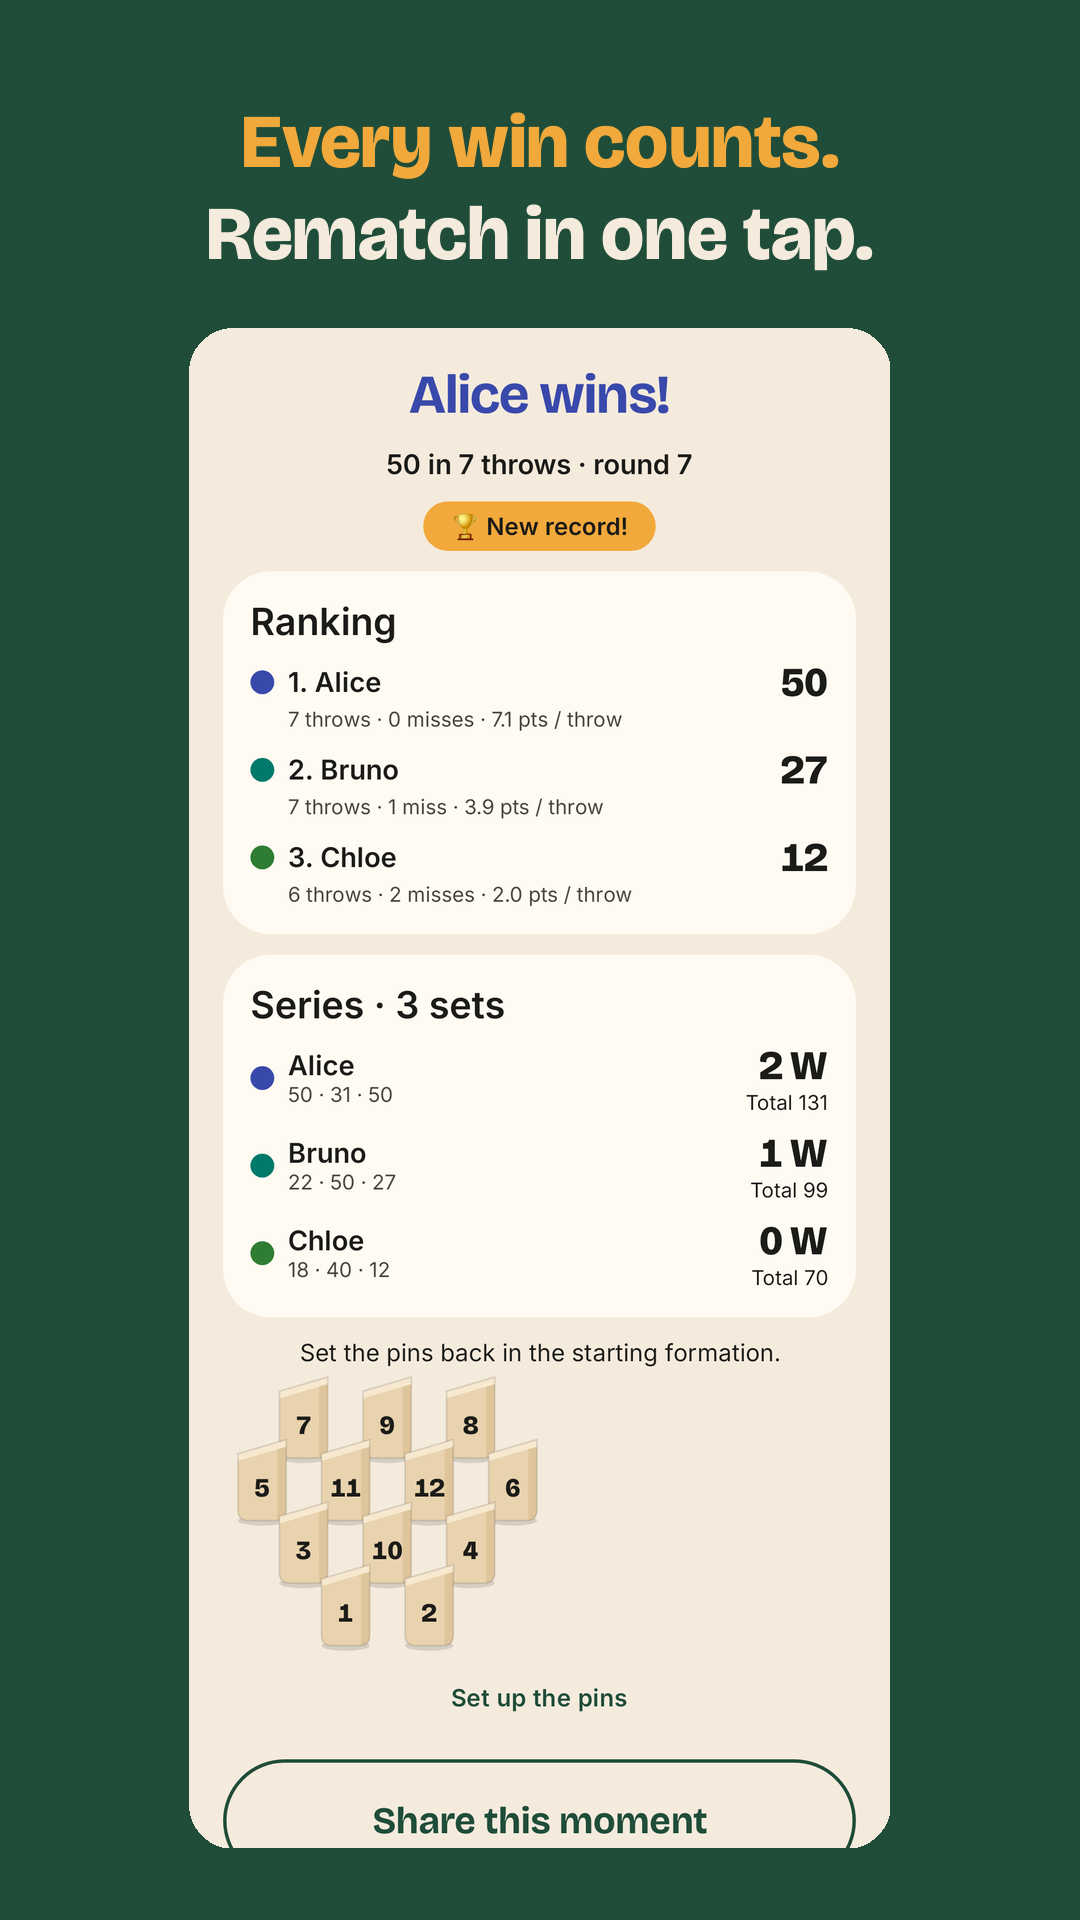
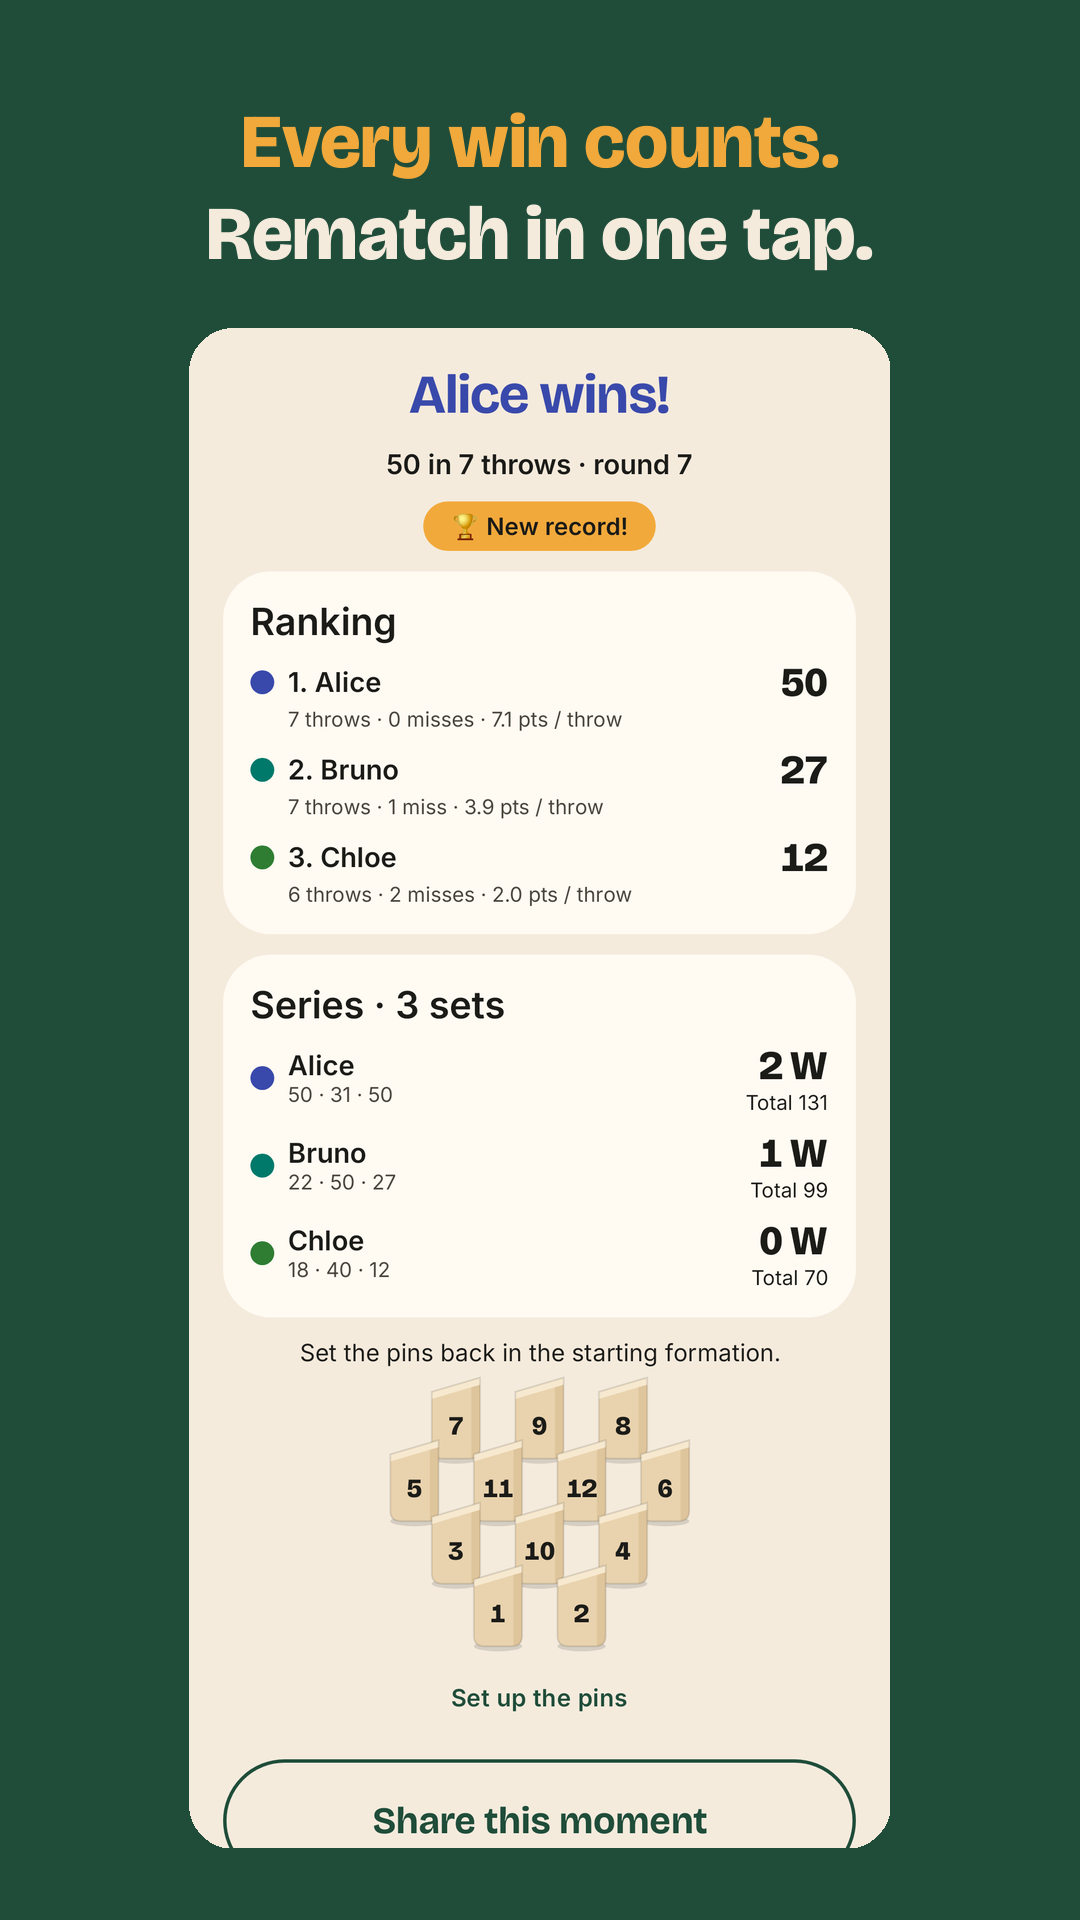
docs(store): checklist à jour, journal du test fermé, captures avec la grille centrée

Changed region(s): [[0.2139, 0.7188, 0.6417, 0.875]]

diff --git a/docs/store/CHECKLIST.md b/docs/store/CHECKLIST.md
@@ -1,90 +1,101 @@
 # Checklist de publication sur le Google Play Store
 
-Mise à jour : 2026-10-28 (version 0.8.0, build 8). Statuts : ✅ fait · 🟡 en cours · ⬜ à faire · 👤 action du porteur
+Mise à jour : 2026-10-29 (version 0.8.3, build 11). Statuts : ✅ fait · 🟡 en cours · ⬜ à faire · 👤 action du porteur
 du projet (compte, identité, décision). Décisions : V1 **sans compte** (phase 4 en V2), **modes de jeu après la
-publication**.
+publication**, **F-Droid après le Play Store**.
 
 ## Décisions
 | Point | Statut | Note |
 |---|---|---|
 | Phase 4 (comptes) reportée en V2 | ✅ | validé le 2026-10-28 |
 | Modes de jeu après la publication | ✅ | validé le 2026-10-28 |
-| Marque « Mölkky » vérifiée, nom validé ou nom de repli | ✅ | nom conservé (usage toléré par les apps tierces) ; non-affiliation dans À propos, README, `TRADEMARKS.md` ; à reprendre dans la fiche ; nom de repli à garder sous le coude |
-| Public cible : 13 ans et plus, hors programme « Familles » | ⬜ 👤 | à confirmer au questionnaire |
+| Marque « Mölkky » vérifiée, nom validé | ✅ | nom conservé ; non-affiliation dans À propos, README, `TRADEMARKS.md`, fiche du store, site ; nom de repli à garder sous le coude |
+| Public cible : 13 ans et plus, hors programme « Familles » | ✅ | déclaré dans la Play Console |
+| Langue par défaut : anglais (fiche et app) | ✅ | un téléphone en français reste en français (0.8.2) |
 | Lien de soutien (« Paye-moi un café ») | ⬜ | seulement sur le site, jamais dans l'app ; règle Play et statut DSA à vérifier |
+| F-Droid | ⬜ | après le Play Store (voir `CLAUDE.md`, décisions du 2026-10-29) |
 
 ## Comptes et clés
 | Point | Statut | Note |
 |---|---|---|
-| Compte développeur personnel « Yogi Studio » (25 $, identité vérifiée) | ⬜ 👤 | |
+| Compte développeur personnel « Yogi Studio » | ✅ | validé le 2026-10-29 |
 | Adresse de contact publique dédiée | ✅ | yogistudiofr@gmail.com |
-| Clé d'envoi créée et sauvegardée | ✅ | créée le 2026-10-28 (empreinte SHA-256 `71:A7:37:72:…:54:A8:DF:B0`) ; archive chiffrée (gpg AES-256) sur le NAS et par e-mail |
-| Play App Signing accepté | ⬜ 👤 | au premier envoi |
+| Clé d'envoi créée et sauvegardée | ✅ | 2026-10-28 ; archive chiffrée sur le NAS et par e-mail |
+| Play App Signing accepté | ✅ | au premier envoi (test interne 0.8.1) |
 
 ## Application
 | Point | Statut | Note |
 |---|---|---|
-| AAB signé (`bundleRelease`) | ✅ | 0.8.0 (build 8) signé avec la clé d'envoi le 2026-10-28 ; APK release signé (v2), 0 traceur |
-| Release minifiée testée sur téléphone (dont partie à côté) | 🟡 👤 | 0.8.0 sur Fairphone 6 (2026-10-28) : partie, reprise, partage, sauvegarde, À propos OK ; **partie à côté en release non testée** (release sur les deux téléphones) |
-| targetSdk au niveau exigé (API 36 minimum) | ✅ | targetSdk 37 |
-| Permission « réseau local » (Android 17) gérée, hôte et invité | ✅ | testé sur Pixel 7a |
-| Permissions minimales, aucune localisation | ✅ | liste blanche vérifiée en CI (`checkReleasePermissions`) |
+| Fiche créée (`com.yogistudio.molkkyboard`, Application, Sports, gratuite) | ✅ | 2026-10-29 |
+| AAB signé | ✅ | 0.8.3 (11), construit avec `-Pmolkky.feedback=true` pour le test fermé |
+| Test interne | ✅ | 0.8.1 (9) publié le 2026-10-29 |
+| Test fermé | 🟡 | 0.8.2 (10) envoyé le 2026-10-29, en cours d'examen ; 0.8.3 (11) prête |
+| Release minifiée testée sur téléphone | 🟡 👤 | 0.8.0 sur Fairphone (partie, reprise, partage, sauvegarde) ; à refaire avec la 0.8.3 depuis le Play Store, dont la partie à côté |
+| targetSdk (API 36 minimum) | ✅ | 37 |
+| Grands écrans (≥ 600 dp, portrait ignoré au targetSdk 37) | ✅ | mise en page adaptative 0.8.3 (`docs/qa/FORM_FACTORS.md`) |
+| Permission « réseau local » (Android 17), hôte et invité | ✅ | testé sur Pixel 7a |
+| Permissions minimales, aucune localisation | ✅ | liste blanche en CI (`checkReleasePermissions`) |
+| Permission caméra avant une photo de joueur ou de vignette | ✅ | 0.8.2 (à vérifier sur téléphone) |
 | Icône adaptative avec variante monochrome | ✅ | |
-| Aucun traceur | ✅ | contrôle Exodus en CI (0 traceur) ; analyse Exodus Privacy après publication ⬜ |
-| Langues : français et anglais | ✅ | |
-| Version : versionCode +1 à chaque envoi, versionName 1.0.0 | ⬜ | à la première version publique |
-| Bouton « Envoyer un retour » (versions de test seulement) | ✅ | |
-| Suppression du compte dans l'app et sur le site | ✅ sans objet | pas de compte en V1 |
+| Aucun traceur | ✅ | contrôle Exodus en CI ; analyse Exodus Privacy après publication ⬜ |
+| Langues : anglais (défaut) et français | ✅ | |
+| Liens vers la politique de confidentialité et les conditions dans l'app | ✅ | À propos (0.8.2) |
+| Bouton « Send feedback » pour les testeurs | ✅ | release construite avec `-Pmolkky.feedback=true` (0.8.3) |
+| Version publique : versionName 1.0.0 | ⬜ | à la demande d'accès à la production |
+| Suppression du compte | ✅ sans objet | pas de compte en V1 |
 
 ## Sécurité et vie privée
 | Point | Statut | Note |
 |---|---|---|
-| Modèle de menaces à jour (partie à côté livrée : compteur, arbitre, départ) | 🟡 | `docs/security/THREAT_MODEL.md` |
+| Modèle de menaces à jour (partie à côté livrée : compteur, arbitre, départ, fin automatique) | 🟡 | `docs/security/THREAT_MODEL.md` |
 | Revue MASVS (`docs/security/MASVS_CHECKLIST.md`) | ⬜ | |
-| Jeton de session de l'invité chiffré (Keystore) et exclu des sauvegardes | ⬜ | à vérifier dans le code |
+| Jeton de session de l'invité chiffré (Keystore) | ⬜ | à vérifier dans le code (il est déjà exclu des sauvegardes : toutes les données le sont) |
 | Protection contre le tapjacking sur « accepter un téléphone » | ⬜ | prévue par la spec |
 | Vérification des dépendances, osv-scanner, SBOM, MobSF | ⬜ | |
 | Registre des traitements (`docs/privacy/REGISTRE.md`) | ⬜ | presque vide sans compte |
-| `SECURITY.md` | ✅ | `/.well-known/security.txt` sur le site ⬜ |
+| `SECURITY.md` et `security.txt` | ✅ | `security.txt` sur le site |
 | Test d'intrusion léger | ⬜ 👤 | |
 
-## Site web (dépôt public `molkky-board-site`, GitHub Pages)
+## Site web (`GuillaumeCHR/molkky-board-site`, GitHub Pages)
 | Point | Statut | Note |
 |---|---|---|
-| Création du dépôt public | ⬜ 👤 | accord nécessaire |
-| Accueil (fr, en) | ⬜ | |
-| Politique de confidentialité (URL exigée par Google) | ⬜ | |
-| Conditions d'utilisation, âge minimum | ⬜ | |
-| Page de suppression de compte | ✅ sans objet | pas de compte en V1 |
-| `security.txt` | ⬜ | |
-| Liens d'À propos branchés sur le site | ⬜ | |
+| Dépôt public et publication | ✅ | https://guillaumechr.github.io/molkky-board-site/ |
+| Accueil (en, fr) | ✅ | |
+| Politique de confidentialité | ✅ | `/privacy.html`, `/fr/confidentialite.html` ; déclarée dans la Play Console |
+| Conditions d'utilisation, âge minimum | ✅ | `/terms.html`, `/fr/conditions.html` |
+| `security.txt` | ✅ | |
+| Lien vers le Play Store sur l'accueil | ⬜ | à la publication |
 
-## Fiche du Play Store (`docs/store/`, fr et en)
+## Fiche du Play Store
 | Point | Statut | Note |
 |---|---|---|
-| Titre (30), description courte (80), longue (4 000) | ⬜ | |
-| Icône 512 × 512, image de présentation 1 024 × 500 | 🟡 | image de présentation faite (fr, en : `docs/store/screenshots/<langue>/feature-graphic.png`) ; icône 512 × 512 à exporter |
-| 4 captures ou plus (accueil, jeu, fin de partie, Hall of Fame) | ✅ | 8 images 1080 × 1920 en français et en anglais (`docs/store/screenshots/fr`, `en`), produites par `tools/store/compose_screenshots.py` |
-| Vignette de partage d'exemple | ⬜ | |
-| « Plusieurs téléphones, sans compte ni Internet » mis en avant | ⬜ | |
+| Textes en anglais (défaut) et en français | ✅ | `docs/store/listing/en-US.md`, `fr-FR.md` ; autres variantes d'anglais reprises automatiquement |
+| Icône 512 × 512 | ✅ | `docs/store/icon-512.png` |
+| Image de présentation 1 024 × 500 | ✅ | `docs/store/screenshots/<langue>/feature-graphic.png` |
+| Captures (8, en et fr) | ✅ | grille centrée (0.8.3) ; `tools/store/compose_screenshots.py` ; **à remplacer dans la Play Console** |
+| Vidéo YouTube de la fiche | ⬜ | facultatif |
 
-## Déclarations Play Console (`docs/store/declarations.md`)
+## Déclarations Play Console
 | Point | Statut | Note |
 |---|---|---|
-| Sécurité des données | ⬜ | aucune collecte ; qualification du transfert direct entre téléphones à vérifier |
-| Service de premier plan `connectedDevice` : justification (+ vidéo) | ⬜ | |
-| Classification du contenu (IARC) | ⬜ 👤 | |
-| Public cible et contenu | ⬜ 👤 | |
-| Publicités : aucune | ⬜ 👤 | |
-| Accès à l'app | ✅ sans objet | pas de compte à fournir |
-| Statut DSA : non-commerçant | ⬜ 👤 | |
+| Sécurité des données | ✅ | aucune donnée collectée ni partagée |
+| Service de premier plan `connectedDevice` (justification et vidéo) | ✅ | vidéo de démonstration (non répertoriée) |
+| Classification du contenu (IARC) | ✅ | interactions entre utilisateurs : oui, limitées aux invités acceptés |
+| Public cible et contenu | ✅ | 13 ans et plus |
+| Publicités : aucune | ✅ | |
+| Applications de santé | ✅ | non concernée |
+| Accès à l'app | ✅ sans objet | pas de compte |
+| Statut DSA : non-commerçant | 🟡 👤 | à vérifier dans le profil du compte |
 
 ## Test fermé (obligatoire pour un compte personnel)
 | Point | Statut | Note |
 |---|---|---|
-| Kit testeurs | 🟡 | plan de test en anglais : `docs/store/closed-test-plan.md` (14 jours, 30 questions) ; lien d'inscription à ajouter, message d'invitation et version française à faire |
-| 12 testeurs ou plus pendant 14 jours consécutifs (viser 15 à 20) | ⬜ 👤 | |
-| Journal des retours et des corrections | ⬜ | pour le questionnaire d'accès à la production |
+| Liste de testeurs | ✅ | « Molkky board test list » |
+| Instructions pour les testeurs | ✅ | retirer la remarque sur les tablettes avec la 0.8.3 |
+| Plan de test | ✅ | `docs/store/closed-test-plan.md` (14 jours, 30 questions) |
+| 12 testeurs ou plus pendant 14 jours consécutifs (viser 15 à 20) | ⬜ 👤 | démarre après l'approbation de Google |
+| Journal des retours et des corrections | 🟡 | `docs/store/test-journal.md` |
+| Demande d'accès à la production | ⬜ 👤 | réponses préparées dans le journal |
 
 ## Tests sur téléphone encore ouverts
 | Point | Statut | Note |
@@ -92,4 +103,4 @@ publication**.
 | Partie à côté : même Wi-Fi et point d'accès | ✅ | Fairphone 6 + Pixel 7a, 2026-10-28 |
 | Point d'accès sans réseau mobile (plage) | ⬜ 👤 | |
 | Coupures, hôte écran éteint, refus de permissions | ⬜ 👤 | `docs/qa/PARTIE_A_COTE.md` |
-| Plan J7b (0.6.0) | ⬜ 👤 | `docs/tests/J7b-plan-de-test.md` |
+| Version Play Store 0.8.3 : photo de joueur, langue, liens d'À propos, partie à côté | ⬜ 👤 | |

diff --git a/docs/store/test-journal.md b/docs/store/test-journal.md
@@ -1,0 +1,61 @@
+# Journal du test fermé
+
+Sert à suivre le test fermé obligatoire (12 testeurs ou plus pendant 14 jours consécutifs) et à répondre aux questions
+de Google lors de la **demande d'accès à la production**. À tenir au fil de l'eau : chaque retour, sa suite, la version
+qui le corrige.
+
+## Suivi du test
+| Date | Testeurs inscrits | Jour du compte à rebours | Version | Événement |
+|---|---|---|---|---|
+| 2026-10-29 | — | — | 0.8.1 (9) | Test interne publié (porteur du projet) |
+| 2026-10-29 | — | — | 0.8.2 (10) | Test fermé envoyé à l'examen de Google |
+| | | | 0.8.3 (11) | Prête : grands écrans, bouton « Send feedback » |
+
+Le compte à rebours démarre au premier jour où **au moins 12 testeurs** sont inscrits ; s'il passe sous 12, il repart
+à zéro.
+
+## Retours et corrections
+| Date | Source | Retour | Suite donnée | Version |
+|---|---|---|---|---|
+| 2026-10-28 | Test interne, 2 téléphones | QR code refusé s'il est affiché depuis plus de 2 minutes | QR renouvelé automatiquement, mention à l'écran | 0.8.0 |
+| 2026-10-28 | Test interne | Compteur « téléphones connectés » incluant l'hôte | Compte des invités seulement | 0.8.0 |
+| 2026-10-28 | Test interne (Android 17) | L'invité ne pouvait pas joindre l'hôte | Permission « réseau local » demandée à l'invité | 0.8.0 |
+| 2026-10-28 | Test interne | Pas de moyen de quitter la partie côté invité ; gestion des téléphones peu visible côté hôte | « Se déconnecter » pour l'invité ; écran « Gérer les téléphones » en deux pavés ; « Déconnecter ce téléphone » | 0.8.0 |
+| 2026-10-28 | Test interne | Tout invité doit pouvoir compter les points ; besoin d'un arbitre | Rôle compteur par défaut, invité « arbitre » sans jouer | 0.8.0 |
+| 2026-10-28 | Test interne | Pas d'avertissement quand un téléphone part ou est déconnecté ; partage actif après la fin | Avertissements sur les deux téléphones ; fin automatique du partage | 0.8.0 |
+| 2026-10-29 | Revue avant publication | Anglais attendu par défaut (fiche en anglais) | Anglais par défaut, français conservé pour les téléphones en français | 0.8.2 |
+| 2026-10-29 | Revue avant publication | Un QR scanné juste avant son renouvellement était refusé | Le QR précédent reste valable jusqu'à ses 2 minutes | 0.8.2 |
+| 2026-10-29 | Revue avant publication | Prise de vue refusée par Android (permission caméra déclarée pour le scan) | Permission demandée avant la photo | 0.8.2 |
+| 2026-10-29 | Revue avant publication | Liens vers la politique de confidentialité exigés dans l'app | Liens dans À propos | 0.8.2 |
+| 2026-10-29 | Audit grands écrans | Mise en page étirée sur tablette (portrait ignoré au targetSdk 37) | Contenu centré, écran de jeu sur deux colonnes ; grille centrée | 0.8.3 |
+| 2026-10-29 | Tournage de la vidéo | « Ready to play? » affiché sur le téléphone invité | Réservé à l'organisateur | 0.8.3 |
+
+## Réponses préparées pour la demande d'accès à la production
+À compléter à la fin des 14 jours avec les chiffres réels. Les questions de Google évoluent : les relire au moment de la
+demande.
+
+**Comment avez-vous recruté vos testeurs ?**
+Famille, amis et joueurs de Mölkky de l'entourage du développeur [à compléter : club, réseaux, service de testeurs le
+cas échéant].
+
+**Quelle a été la facilité de recrutement ?** [à compléter]
+
+**Décrivez l'engagement des testeurs.**
+[nombre de testeurs actifs, parties jouées, retours reçus par e-mail et par « Send feedback »]
+
+**Résumé des retours reçus.** [à compléter à partir du tableau ci-dessus]
+
+**Public visé.** Joueurs de Mölkky, amateurs et clubs, adolescents et adultes (13 ans et plus), qui veulent compter les
+points sans papier ni calcul, sur un ou plusieurs téléphones.
+
+**Valeur apportée.** Calcul des points et application des règles officielles, correction de n'importe quel lancer,
+plusieurs téléphones sur la même partie sans compte ni Internet, historique et statistiques ; aucune publicité, aucun
+traceur.
+
+**Installations attendues la première année.** [estimation à donner]
+
+**Modifications faites grâce au test.** Voir le tableau « Retours et corrections ».
+
+**Comment avez-vous décidé que l'app est prête ?**
+Tous les retours bloquants corrigés, tests automatisés (moteur de score, protocole, captures d'écran) et tests sur
+téléphones réels au vert, aucun plantage remonté pendant [N] jours.
